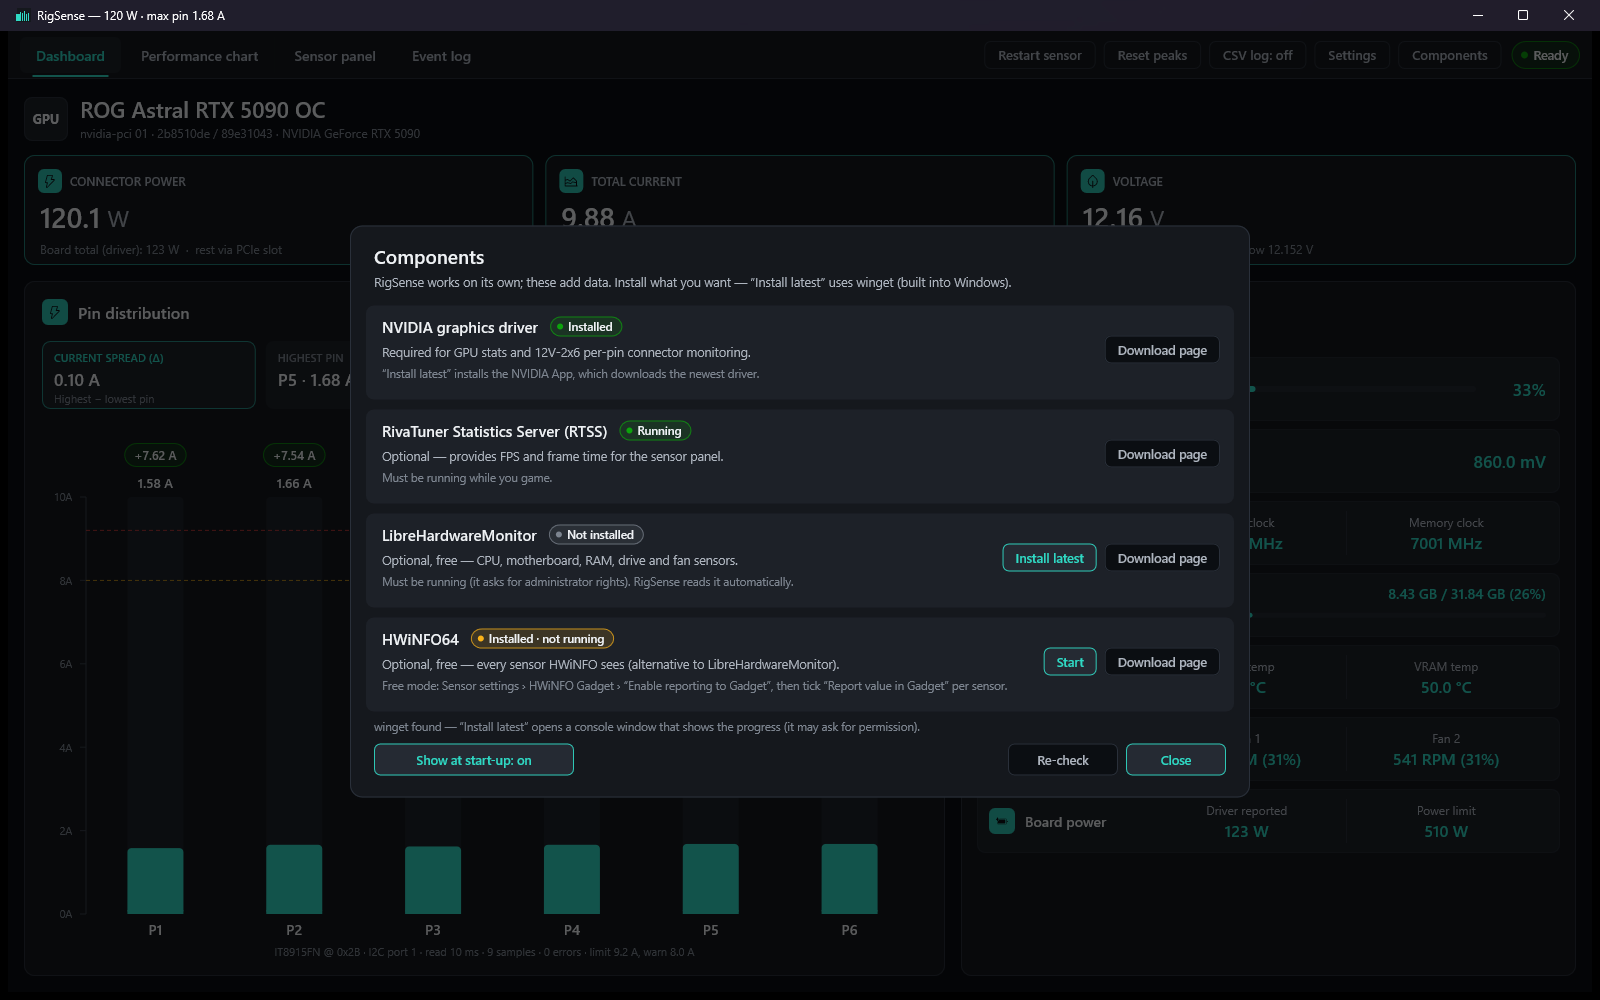
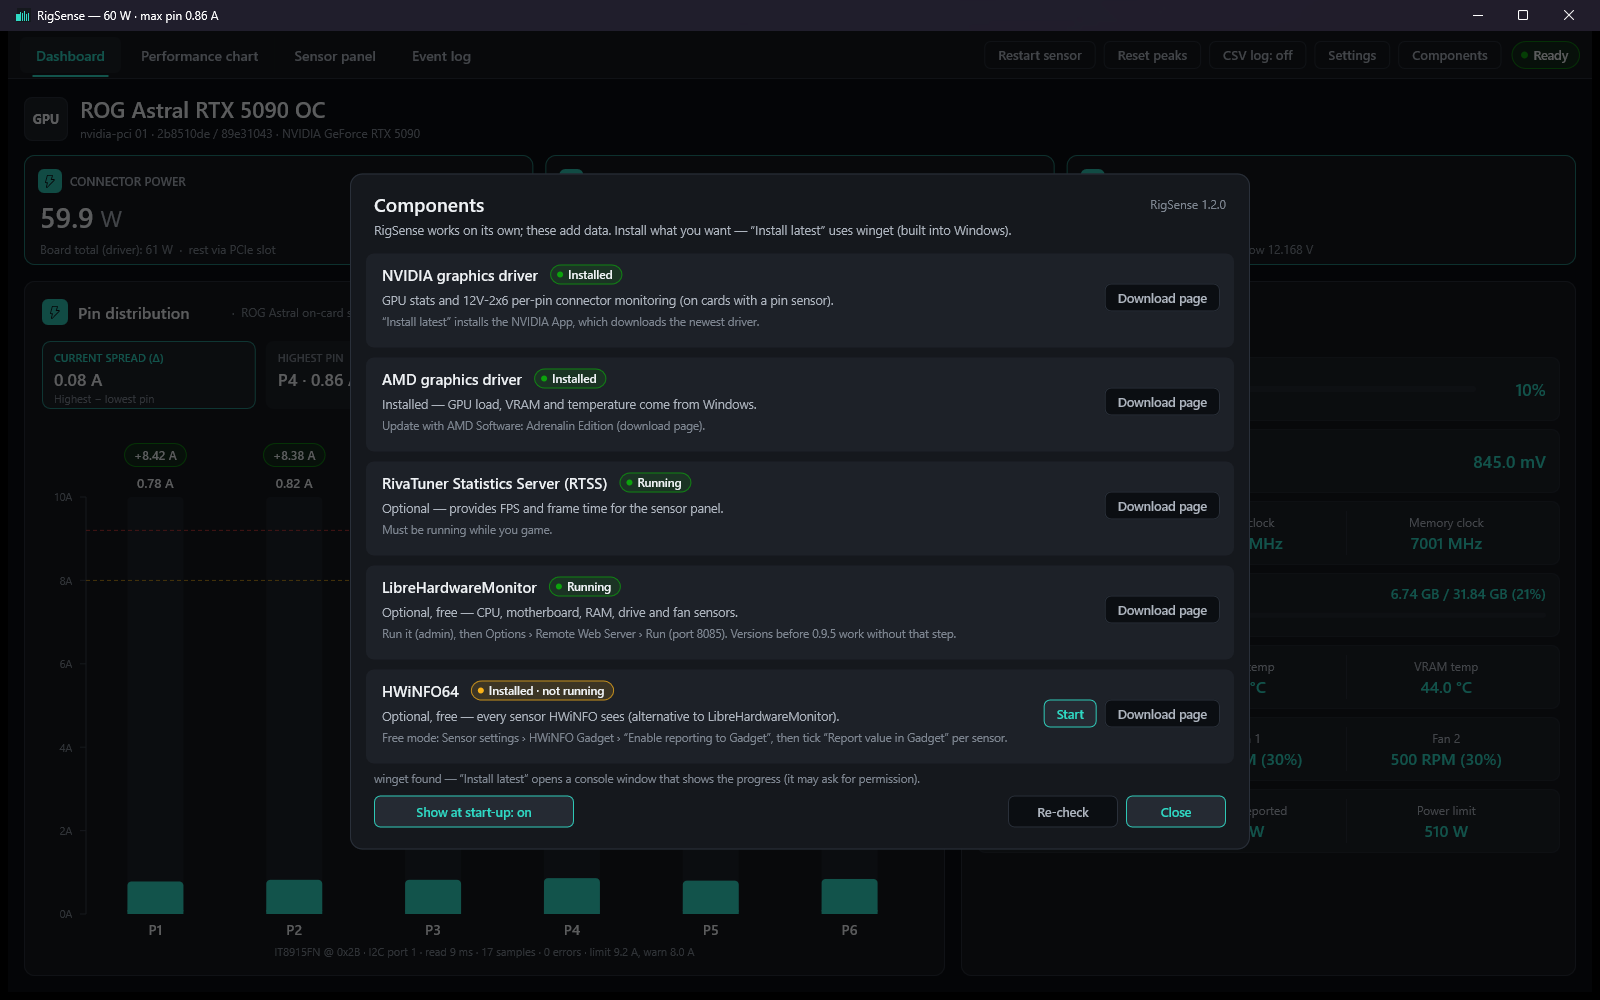
Panel: drag onto any display to go fullscreen, display names, auto-reconnect
- Dropping the virtual panel on a non-main display makes it fullscreen there and
  adopts that resolution; a clearly different shape rescales the grid proportionally
- Right-click: Back to window, Fullscreen on <display>, Identify, snap on/off
- Display picker shows monitor friendly names + resolution; Identify overlays numbers
- Panel follows its display on WM_DISPLAYCHANGE (window fallback, returns on reconnect)
- README + screenshots updated, version 1.2.0 (unreleased)

diff --git a/src/panel.cpp b/src/panel.cpp
@@ -88,8 +88,8 @@ bool Save(const std::wstring& path, const Layout& l) {
     FILE* f = _wfopen(path.c_str(), L"wb");
     if (!f) return false;
     fprintf(f, "# RigSense sensor panel layout - edit it in the app (Sensor panel tab)\n");
-    fprintf(f, "panel width=%d height=%d cols=%d rows=%d gap=%d radius=%d bg=%06X dim=%d autoshow=%d display=%s\n", l.width,
-            l.height, l.cols, l.rows, l.gap, l.radius, l.bgColor, l.bgDim, l.autoShow ? 1 : 0, U8(l.display).c_str());
+    fprintf(f, "panel width=%d height=%d cols=%d rows=%d gap=%d radius=%d bg=%06X dim=%d autoshow=%d snap=%d display=%s\n", l.width,
+            l.height, l.cols, l.rows, l.gap, l.radius, l.bgColor, l.bgDim, l.autoShow ? 1 : 0, l.snapOnDrop ? 1 : 0, U8(l.display).c_str());
     fprintf(f, "image text=%s\n", U8(l.bgImage).c_str());
     for (auto& w : l.widgets) {
         fprintf(f,
@@ -122,6 +122,7 @@ bool Load(const std::wstring& path, Layout& out) {
                 else if (k == "bg") l.bgColor = uint32_t(strtoul(v.c_str(), nullptr, 16));
                 else if (k == "dim") l.bgDim = ParseInt(v, l.bgDim);
                 else if (k == "autoshow") l.autoShow = v == "1";
+                else if (k == "snap") l.snapOnDrop = v != "0";
                 else if (k == "display") l.display = W16(v);
             }
         } else if (line.rfind("image ", 0) == 0) {

diff --git a/src/app.cpp b/src/app.cpp
@@ -26,7 +26,7 @@
 #include "sensors.h"
 #include "components.h"
 
-#define RIGSENSE_VERSION L"1.1.0"
+#define RIGSENSE_VERSION L"1.2.0"
 
 namespace {
 
@@ -948,8 +948,11 @@ LRESULT CALLBACK WndProc(HWND h, UINT m, WPARAM wp, LPARAM lp) {
         else if (g_tab == TAB_DASH && (wp == 'A' || wp == 'W' || wp == 'V')) { g_mode = wp == 'A' ? 0 : wp == 'W' ? 1 : 2; InvalidateRect(h, nullptr, FALSE); }
         return 0;
     case WM_DISPLAYCHANGE:
-        EnumMonitors();
+        OnDisplaysChanged();
         InvalidateRect(h, nullptr, FALSE);
+        return 0;
+    case WM_APP_PANEL_SNAP:
+        SnapPanel(wp == 0);
         return 0;
     case WM_APP_TRAY:
         if (LOWORD(lp) == WM_LBUTTONUP || LOWORD(lp) == NIN_BALLOONUSERCLICK) {
@@ -1039,6 +1042,11 @@ int WINAPI wWinMain(HINSTANCE inst, HINSTANCE, PWSTR, int show) {
     pc.lpfnWndProc = PanelProc;
     pc.lpszClassName = L"RigSensePanelWnd";
     RegisterClassExW(&pc);
+    WNDCLASSEXW ic = wc;
+    ic.style = 0;
+    ic.lpfnWndProc = IdentifyProc;
+    ic.lpszClassName = L"RigSenseIdentify";
+    RegisterClassExW(&ic);
 
     // sensor panel layout
     g_layoutPath = panel::DefaultPath();

diff --git a/src/panel.h b/src/panel.h
@@ -44,7 +44,8 @@ struct Layout {
     std::wstring bgImage;
     int bgDim = 40;                         // % darkening over the image
     std::wstring display;                   // \\.\DISPLAYn
-    bool autoShow = false;
+    bool autoShow = false;                  // open the panel window when the app starts
+    bool snapOnDrop = true;                 // virtual panel dropped on another display -> fullscreen there
     std::vector<Widget> widgets;
 };
 

diff --git a/README.md b/README.md
@@ -18,7 +18,10 @@ RigSense is a single small native app (C++, Win32 + Direct2D), not a web or Elec
   - Per-widget colour, background style, text size, label, range, warning/critical levels, decimals, and graph history length.
   - Panel background colour or image, grid, spacing and corner radius.
 - **Virtual panel.** No case screen yet? Open the panel as a floating "device" window at its real pixel size. Drag it around, scroll to resize, and pin it on top.
-- **Real panel output.** Pick the case display under **Show on** and the panel runs fullscreen on it. Any panel that Windows sees as a monitor works (HDMI, DisplayPort or USB-C).
+- **Real panel output, one size fits all.** Any panel that Windows sees as a monitor works (HDMI, DisplayPort or USB-C):
+  - **Drag and drop:** drag the virtual panel onto your case display and let go. It goes fullscreen there and adopts that display's resolution. If the display's shape differs a lot from your design, the grid rescales and keeps your arrangement.
+  - **Pick it directly:** choose the display under **Show on**. Monitors are listed by name and resolution, and **Identify** shows a big number on each screen.
+  - **Set and forget:** if the case display is unplugged or switched off, the panel falls back to a window. When the display comes back, the panel returns to it fullscreen. Right-click the panel for *Back to window*, *Fullscreen on display…*, or to turn off snapping.
 - **Export / import.** Share a finished panel as one `.rigpanel` file. The background image is included.
 - **More sensors for free.** RigSense reads every CPU, motherboard, RAM, drive and fan sensor from **LibreHardwareMonitor** or **HWiNFO's free Gadget mode**. It does not use HWiNFO shared memory, which has a 12-hour limit in the free version. It also reads **FPS and frame time** from RTSS.
 - **Component check.** RigSense detects your GPU driver, RTSS, LibreHardwareMonitor and HWiNFO, links each download page, and can install the latest version for you through `winget`.
@@ -81,7 +84,7 @@ The **Components** button (also shown at start-up when something is missing) che
 1. Open the **Sensor panel** tab and pick your screen size (or type a custom one).
 2. Click **Add** to add widgets, or click a sensor in the list on the right. Drag a widget to move it and drag its corner to resize. **Del** removes it and the arrow keys nudge it.
 3. Select a widget to change its type, colour, background, text size, label, range, alert levels and so on.
-4. Under **Show on**, choose **Virtual panel** or your case display, then click **Open panel**. Turn on **Open at start** to open it automatically.
+4. Click **Open panel**. To put it on your case display, either drag the virtual panel onto that display, or pick the display under **Show on** (**Identify** helps you tell screens apart). Turn on **Open at start** so the panel opens automatically with RigSense and follows the display when it's plugged back in.
 5. **Export panel…** saves a `.rigpanel` file you can share. **Import panel…** loads one.
 
 Sensors from HWiNFO and LibreHardwareMonitor are tied to the hardware, so an imported panel tells you which widgets need a sensor picked on your PC.
@@ -148,6 +151,12 @@ New issues get an automatic first look: an AI assistant (Claude) checks the repo
 ---
 
 ## Changelog
+
+**1.2.0** (in the repository, not yet released)
+- Drag the virtual panel onto any display and it goes fullscreen there. A right-click menu offers *Back to window*, *Fullscreen on display…*, and turning snapping on or off.
+- The display picker shows monitor names and resolutions, and **Identify** shows a number on each screen.
+- The panel follows its display automatically: it falls back to a window when the display disconnects and returns to it when it reconnects.
+- When the target display has a different shape, the grid rescales proportionally instead of stretching the widgets.
 
 **1.1.0**
 - Per-pin monitoring for any GPU through external meters: Thermal Grizzly WireView Pro II, ElmorLabs PMD2X, and MSI MPG Ai1300TS/Ai1600TS (GPU Safeguard+, including a second connector). They share all the alerts and the emergency shutdown. WireView device faults raise critical alerts.
